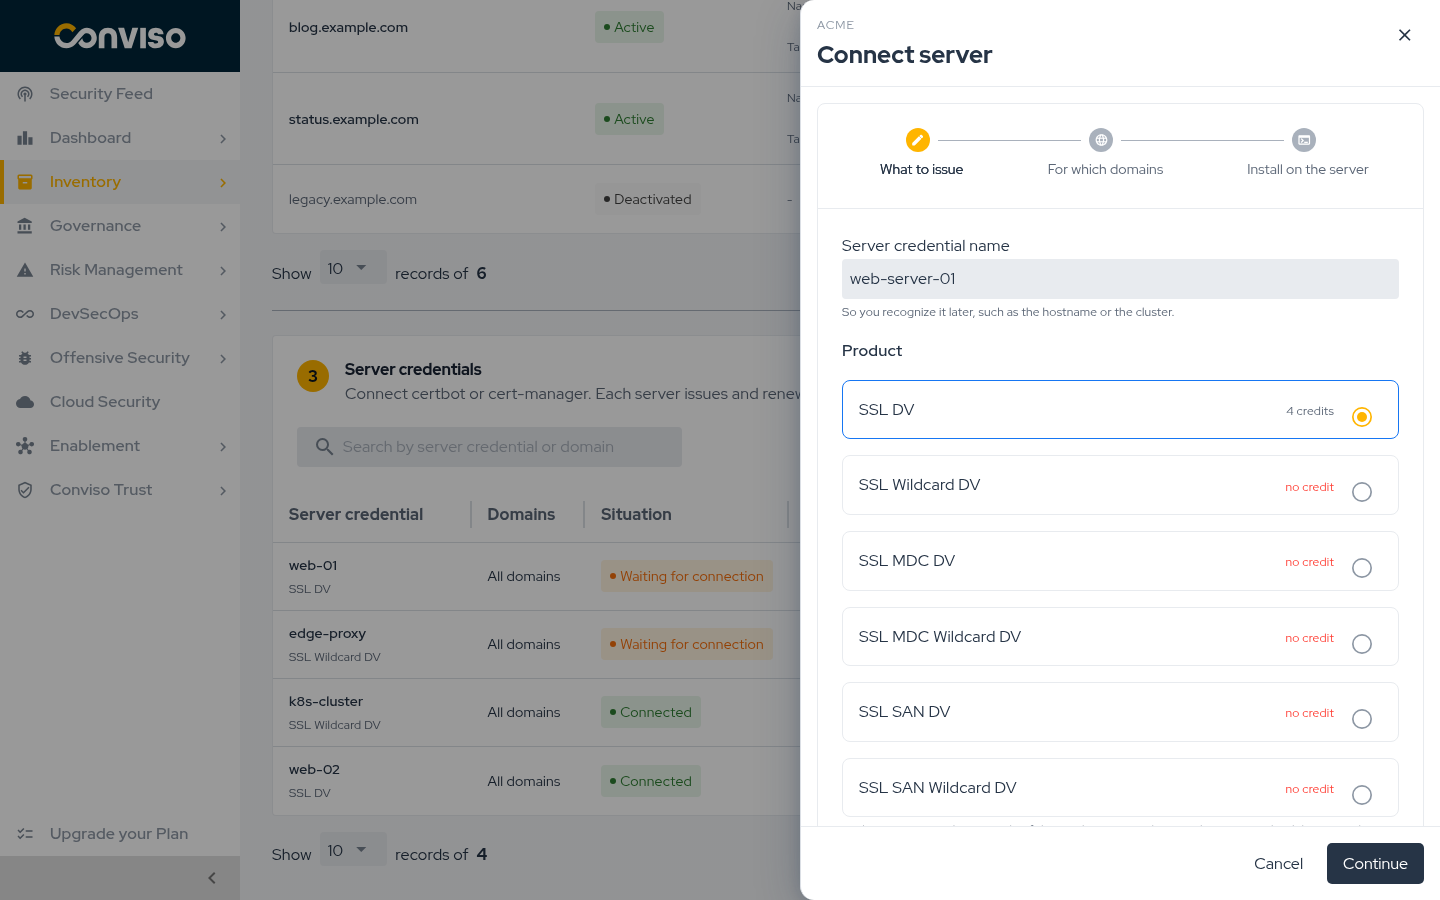
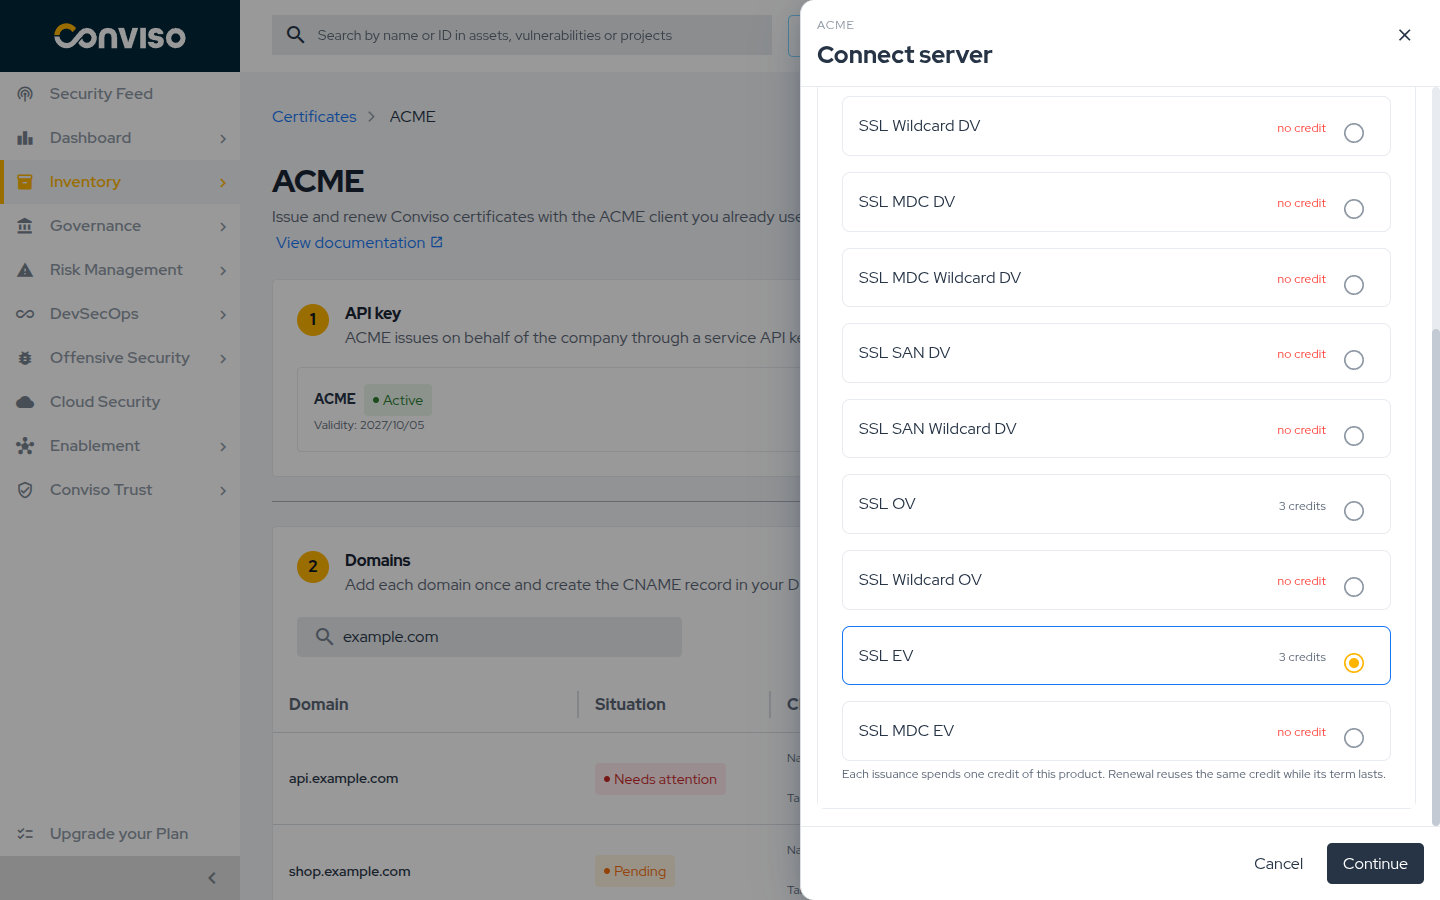
docs(ssl): address the pre-validation review
- Submission unconfirmed settles as Rejected after 24 hours without a
  record at the certificate authority; Troubleshooting says it counts as
  in progress meanwhile.
- Revoked no longer blocks a new request; the issuance step says the
  pre-validated option comes selected.
- Link the page from the SSL overview and describe the Pre-validated
  organization step in the certificate timeline.
- New images: the Connect server product and Organization steps, and the
  pre-validation list, request review and details.

diff --git a/docs/platform/ssl-certificates/organization-pre-validation.md b/docs/platform/ssl-certificates/organization-pre-validation.md
@@ -43,6 +43,8 @@ organizations** page lists every pre-validation of your company:
 Search by name or CNPJ, use the **Active** and **Pending Validation** shortcuts, or open
 **Filters** for status and type. Select a row to open its details.
 
+![Pre-validated organizations page](../../../static/img/platform/ssl-certificates-prevalidation-list.png "The pre-validations of the company, active and pending validation, with the Active and Pending Validation shortcuts.")
+
 A company may have several organizations, each identified by its CNPJ, and each with its own OV and
 EV pre-validations.
 
@@ -87,7 +89,9 @@ Select **Request pre-validation**. The request goes in steps, shown at the top o
    representative has authority to represent the organization, and select **Send request**.
 
 Each organization can have only one pre-validation **in progress** per type. Another one of the same
-type can be requested while the current one is active, rejected or expired.
+type can be requested while the current one is active, rejected, revoked or expired.
+
+![Review step of the request](../../../static/img/platform/ssl-certificates-prevalidation-review.png "The Review step of an OV request: the organization, the representative and who signs the agreement, each with Edit.")
 
 ### The Support Ticket {#support-ticket}
 
@@ -105,6 +109,8 @@ The details show the steps of the validation, each as **Done**, **In progress** 
 | **Order authorization** (OV) / **Representative verification** (EV) | ✓ | ✓ |
 | **Organization validation** | ✓ | ✓ |
 | **Final approval** | | ✓ |
+
+![Details of a pre-validation in validation](../../../static/img/platform/ssl-certificates-prevalidation-detail.png "An EV pre-validation in validation: two steps done, the organization validation in progress and the final approval waiting.")
 
 The platform checks the certificate authority automatically. To check right away, select **Check
 now**, at most once a minute.
@@ -135,10 +141,10 @@ e-mail from the certificate authority. Its cancel link cancels the company's pre
 
 | Status | Meaning |
 | --- | --- |
-| **Submission unconfirmed** | The certificate authority did not confirm the request. The platform keeps checking. Do not send it again; if it stays like this, contact support |
+| **Submission unconfirmed** | The certificate authority did not confirm the request. The platform keeps checking. Do not send it again: if the certificate authority has no record of it after 24 hours, it becomes **Rejected** and the organization can be requested again |
 | **Pending Validation** | The certificate authority is validating the organization. Follow the steps in the details |
 | **Active** | Validated. It can be chosen when issuing certificates of the types it serves |
-| **Rejected** | The certificate authority refused it, or it was rejected in the platform. When the certificate authority already holds a pre-validation for these details, the details say so |
+| **Rejected** | The certificate authority refused it, the request never reached the certificate authority, or it was rejected in the platform. When the certificate authority already holds a pre-validation for these details, the details say so |
 | **Revoked** | It was withdrawn after becoming active, in the platform or by the certificate authority. It is no longer offered at issuance |
 | **Expired** | The validity has ended. It is no longer offered at issuance; to keep using one, request a new pre-validation |
 
@@ -153,10 +159,10 @@ The pre-validation is chosen at each OV or EV order in the
 
 1. In **Product**, pick an OV or EV credit. The wizard tells you whether the company has an active
    pre-validation, or links to the **Pre-validated organizations** page if it has none.
-2. In **Organization**, select **Use a pre-validated organization**. With more than one, choose it in
-   **Pre-validated organization** (search by organization or CNPJ); with only one, it is already
-   chosen. An OV credit offers the active OV and EV pre-validations; an EV
-   credit offers only the EV ones.
+2. In **Organization**, **Use a pre-validated organization** is already selected. With more than
+   one, confirm which one in **Pre-validated organization** (search by organization or CNPJ): one
+   comes chosen. An OV credit offers the active OV and EV pre-validations; an EV credit offers only
+   the EV ones.
 3. The organization and representative details come from the pre-validation and are not typed
    again. If the CSR names another organization, the wizard warns you: the order uses the
    pre-validated organization.
@@ -212,7 +218,7 @@ that is what you want.
 
 | Situation | What to do |
 | --- | --- |
-| The request is refused because one is already in progress | The organization already has a pre-validation of that type being validated. Wait for it to finish or follow it in the details. |
+| The request is refused because one is already in progress | The organization already has a pre-validation of that type being validated. Wait for it to finish or follow it in the details. A request in **Submission unconfirmed** also counts as in progress, for up to 24 hours. |
 | The request is refused because a pre-validation already exists for these details | The certificate authority already holds one for this organization. Contact support before requesting again. |
 | **Continue** does not move to the next step | A field is missing or invalid; the message under it says why. |
 | Requesting, rejecting or revoking asks for two-factor authentication | Sign in to the portal with two-factor authentication (or single sign-on) and try again. |

diff --git a/docs/platform/ssl-certificates/ssl-certificates.md b/docs/platform/ssl-certificates/ssl-certificates.md
@@ -69,7 +69,9 @@ change the encryption — it changes what the certificate asserts, and how much 
 For **OV** and **EV**, the certificate authority contacts the person you register as the
 **Application Representative**, by phone or e-mail, to confirm the request was authorized.
 Issuance stays pending until that person responds. Register someone who is reachable — an
-unreachable contact is the most common reason an OV or EV order stalls.
+unreachable contact is the most common reason an OV or EV order stalls. With an active
+[organization pre-validation](./organization-pre-validation.md), the order only waits for domain
+validation.
 :::
 
 ### Domain coverage: single, wildcard and multi-domain
@@ -207,6 +209,8 @@ takes longer.
   choosing a product to publishing the validation record.
 - [Managing Certificates](./managing-certificates.md) — tracking, validating, downloading,
   reissuing and revoking a certificate.
+- [Organization Pre-validation](./organization-pre-validation.md) — validating the organization
+  once, so OV and EV orders only wait for domain validation.
 - [Automating Certificates with ACME](./acme.md) — issuing and renewing certificates with certbot,
   cert-manager or any ACME client.
 

diff --git a/docs/platform/ssl-certificates/acme.md b/docs/platform/ssl-certificates/acme.md
@@ -254,7 +254,9 @@ situation in the list. The credential shows **Waiting for connection** until the
 registers with the key, and **Connected** after that. A link to this guide sits right below the
 key warning, for the step-by-step setup.
 
-![Connect server panel](../../../static/img/platform/ssl-certificates-acme-connect-server.png "Step 1 of Connect server: the credential name and the product, with the credits available for each.")
+![Connect server panel](../../../static/img/platform/ssl-certificates-acme-connect-server.png "Step 1 of Connect server: the product, with the credits available for each, including the OV and EV ones.")
+
+![Organization step of Connect server](../../../static/img/platform/ssl-certificates-acme-connect-organization.png "Step 2 of Connect server, for OV and EV products: the pre-validated organization and its details.")
 
 ### OV and EV Through ACME {#ov-ev}
 

diff --git a/docs/platform/ssl-certificates/managing-certificates.md b/docs/platform/ssl-certificates/managing-certificates.md
@@ -78,7 +78,9 @@ The **Certificate details** card shows the **Issuer**, the **Validation** method
 **Expires** dates, and **Subscription until** — the date up to which reissues are included.
 
 The **Lifecycle** timeline below it shows how far the certificate has progressed:
-**Requested** → **Domain validated** → (**EV details**, for EV certificates) → **Issued**. A
+**Requested** → **Domain validated** → (**EV details** for EV certificates, or **Pre-validated
+organization**, already complete, when the EV certificate used a
+[pre-validation](./organization-pre-validation.md)) → **Issued**. A
 certificate that did not complete ends on **Rejected**, **Replaced** or **Revoked** instead.
 
 ![Detail page of a valid certificate](../../../static/img/platform/ssl-certificates-detail.png "A valid certificate, with the lifecycle complete through to Issued.")
